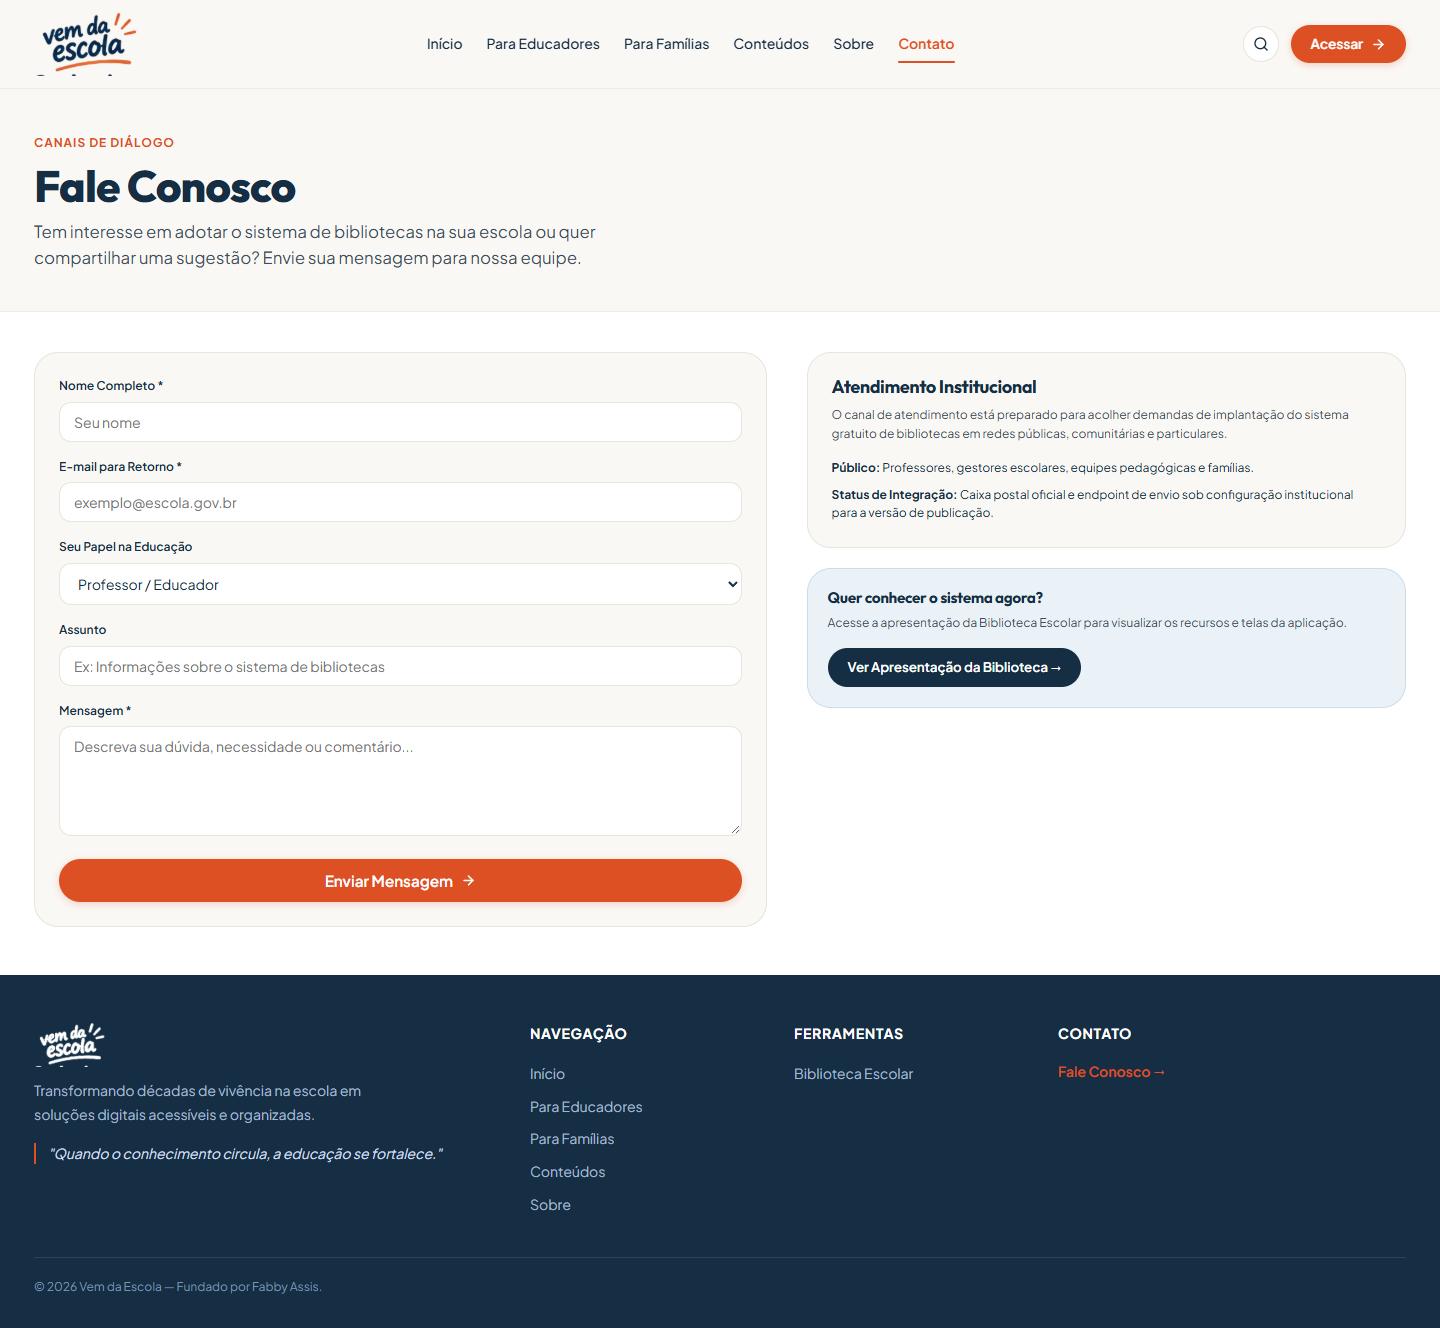
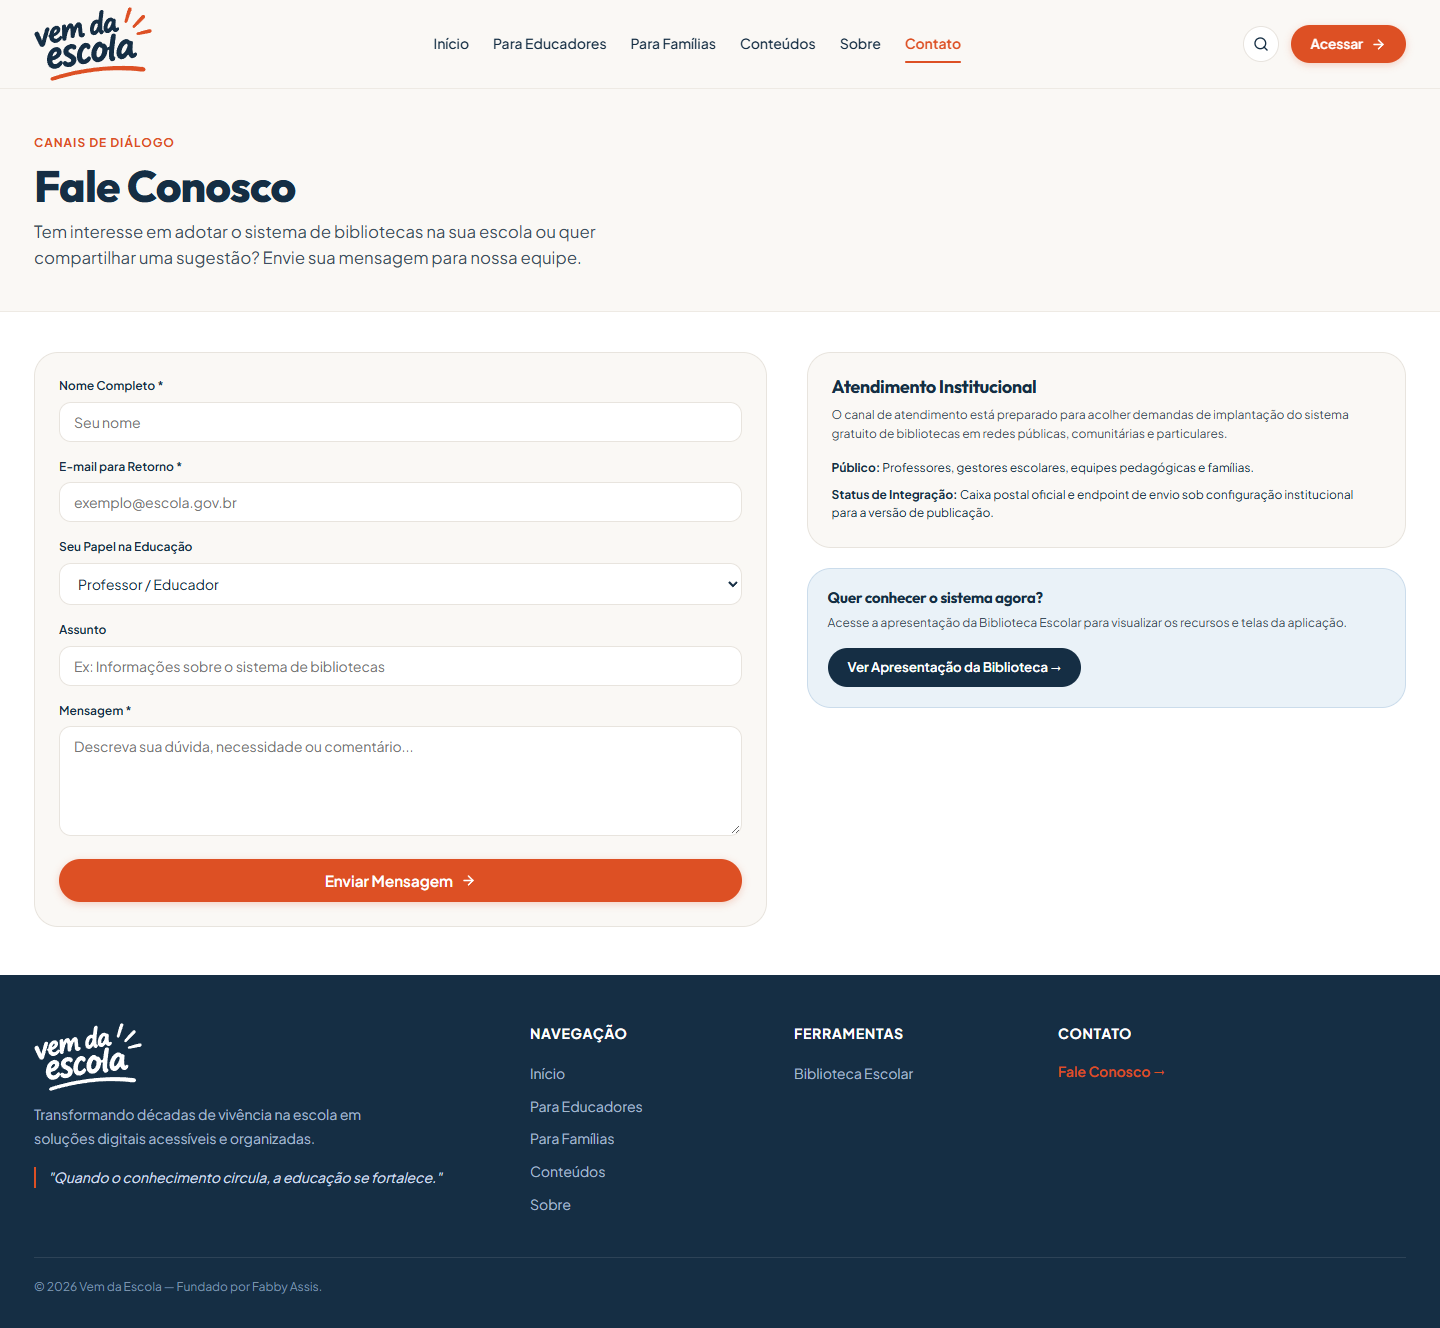
test(site): tornar os testes portateis e gerar comparacao com a prancha
- Playwright declarado como devDependency; removidos caminhos absolutos do Windows
- Navegador: Chromium do Playwright ou Edge/Chrome do sistema
- Verificacoes por resolucao (1672, 1440, 1280, 768, 390, 360): rolagem
  horizontal, textos cortados, imagens deformadas, sobreposicao de cartoes
- Comparacao prancha x implementacao gerada pelo proprio teste; script Python removido
- README e docs/arquitetura.md atualizados; indicador +30 anos registrado
  como pendente de confirmacao factual

diff --git a/README.md b/README.md
@@ -39,7 +39,8 @@ vem-da-escola-site/
 │   ├── variables.css           # Tokens do Design System (cores, tipografia, espaçamento)
 │   ├── base.css                # Reset semântico, utilitários, acessibilidade e foco
 │   ├── components.css          # Cabeçalho, menu mobile, cartões compactos, modal, rodapé
-│   └── pages.css               # Estilos da Home (Hero, Quem Somos) e da Biblioteca Escolar
+│   ├── pages.css               # Estilos das páginas internas e da Biblioteca Escolar
+│   └── home.css                # Composição da Página Inicial nas proporções da prancha (unidade --u)
 ├── js/
 │   ├── config.js               # Centralização de configurações e URLs externas
 │   ├── main.js                 # Comportamento interativo (menu, rolagem, galeria, form seguro)
@@ -47,8 +48,9 @@ vem-da-escola-site/
 ├── images/
 │   ├── hero-educacao.jpg       # Fotografia ampla com enquadramento completo dos personagens
 │   ├── quem-somos-professora.jpg # Fotografia pura da professora diante da lousa digital
-│   ├── logo-vem-da-escola.svg  # Logotipo oficial em duas linhas com traço e centelhas
-│   ├── logo-vem-da-escola.png  # Logotipo transparente em alta definição
+│   ├── hero-mask.svg           # Máscara que dissolve a borda esquerda da fotografia do hero
+│   ├── logo-vem-da-escola.svg  # Logotipo vetorizado a partir da prancha (não é o arquivo-mestre da marca)
+│   ├── logo-vem-da-escola.png  # Versão PNG transparente gerada a partir do SVG
 │   ├── favicon.svg             # Favicon da plataforma
 │   └── biblioteca/             # Capturas reais da aplicação de bibliotecas
 │       ├── dashboard.png
@@ -69,9 +71,10 @@ vem-da-escola-site/
 │   ├── arquitetura.md          # Especificação da arquitetura e tokens
 │   ├── navegacao.md            # Mapeamento completo das rotas e fluxos de usuário
 │   └── evidencias/             # Evidências de testes responsivos e comparações visuais
+├── referencias/
+│   └── wide_clean_modern_website_homepage_layout_with_w.png # Prancha visual aprovada (1672 × 941)
 ├── tests/
-│   ├── test-site.mjs           # Bateria automatizada de testes Playwright portáteis
-│   └── generate_comparisons.py # Gerador de comparações lado a lado
+│   └── test-site.mjs           # Testes Playwright, capturas responsivas e comparação com a prancha
 └── package.json                # Gerenciamento de scripts e comandos portáteis
 ```
 
@@ -116,6 +119,7 @@ Por se tratar de uma arquitetura estática pura de alto desempenho, os próprios
 
 A validação completa da integridade dos arquivos estáticos é executada via:
 ```bash
+npm install   # instala o Playwright (devDependency)
 npm test
 # ou diretamente:
 node tests/test-site.mjs
@@ -124,12 +128,16 @@ node tests/test-site.mjs
 ---
 
 ## 9. Execução dos Testes Automatizados
-Os testes automatizados foram construídos com Playwright de forma totalmente reproduzível e independente de caminhos locais do desenvolvedor.
+Os testes automatizados usam o Playwright declarado em `package.json` (`npm install`), sem caminhos locais do desenvolvedor. O navegador é o Chromium do Playwright (`npx playwright install chromium`) ou, na ausência dele, o Edge ou o Chrome já instalados no sistema.
+
+A cada execução são geradas capturas da Página Inicial em 1672, 1440, 1280, 768, 390 e 360 px e a comparação `docs/evidencias/comparacao_prancha_vs_implementacao_1672.png` (prancha × navegador real). Em cada resolução verifica-se ausência de rolagem horizontal, de textos cortados, de imagens deformadas e de sobreposição de cartões. A comparação visual é insumo para a aprovação humana; os testes não substituem a homologação visual.
+
+> **Pendência factual:** o indicador "+30 anos de experiência na educação" reproduz a prancha aprovada e permanece **sujeito à confirmação factual pela fundadora antes da publicação**.
 
 Eles cobrem:
 - **Integridade de Carregamento:** Todas as páginas internas (`index.html`, `biblioteca.html`, `educadores.html`, `familias.html`, `conteudos.html`, `sobre.html`, `contato.html`) carregam com status HTTP 200.
 - **Ausência de Erros no Console:** Zero warnings ou exceptions de JavaScript.
-- **Enquadramento e Resolução das Imagens:** A foto do Hero é ampla (1256px de largura) e preserva todos os personagens e o quadro verde; a foto de Quem Somos é independente e livre de elementos de interface.
+- **Enquadramento das Imagens:** A foto do Hero (1408 × 580 px) é exibida inteira, sem recorte, preservando os quatro personagens e o quadro verde; a foto de Quem Somos carrega sem erros.
 - **Ausência de Redirecionamento para Localhost:** Garantia de que o botão "ACESSAR BIBLIOTECA" não redireciona o visitante indevidamente para `localhost` antes da homologação final.
 - **Comportamento Real do Formulário:** Validação dos campos obrigatórios e sanitização total contra injeção de scripts (XSS).
 - **Transparência de Pré-produção:** Informação clara sobre o status de configuração da mensageria institucional, sem mensagens de confirmação falsas.

diff --git a/docs/arquitetura.md b/docs/arquitetura.md
@@ -18,7 +18,8 @@ vem-da-escola-site/
 │   ├── variables.css           # Tokens de design, cores, tipografia e raios
 │   ├── base.css                # Reset moderno, utilitários, acessibilidade
 │   ├── components.css          # Cabeçalho, menu, botões, cartões, modal, rodapé
-│   └── pages.css               # Estilos de páginas específicas (Hero, Quem Somos, Biblioteca)
+│   ├── pages.css               # Estilos das páginas internas e da Biblioteca
+│   └── home.css                # Composição da Página Inicial nas proporções da prancha
 ├── js/
 │   ├── config.js               # Centralização de URLs externas e configurações
 │   ├── main.js                 # Comportamento interativo (menu mobile, galeria, formulários)
@@ -26,7 +27,8 @@ vem-da-escola-site/
 ├── images/
 │   ├── hero-educacao.jpg       # Fotografia principal da prancha aprovada (otimizada 2x)
 │   ├── quem-somos-professora.jpg # Fotografia da seção Quem Somos (lousa digital)
-│   ├── logo-vem-da-escola.svg  # Logotipo vetorial oficial com traço e elementos decorativos
+│   ├── hero-mask.svg           # Máscara da fotografia do hero (dissolve a borda esquerda)
+│   ├── logo-vem-da-escola.svg  # Logotipo vetorizado a partir da prancha (não é o arquivo-mestre)
 │   ├── favicon.svg             # Favicon vetorial da plataforma
 │   └── biblioteca/             # Capturas reais da aplicação de bibliotecas
 │       ├── dashboard.png
@@ -48,7 +50,7 @@ vem-da-escola-site/
 │   ├── navegacao.md            # Mapeamento detalhado dos fluxos de navegação
 │   └── evidencias/             # Capturas reais da execução e testes responsivos
 └── tests/
-    └── test_site.py            # Suíte de testes automatizados com Playwright
+    └── test-site.mjs           # Testes Playwright, capturas responsivas e comparação com a prancha
 ```
 
 ---
